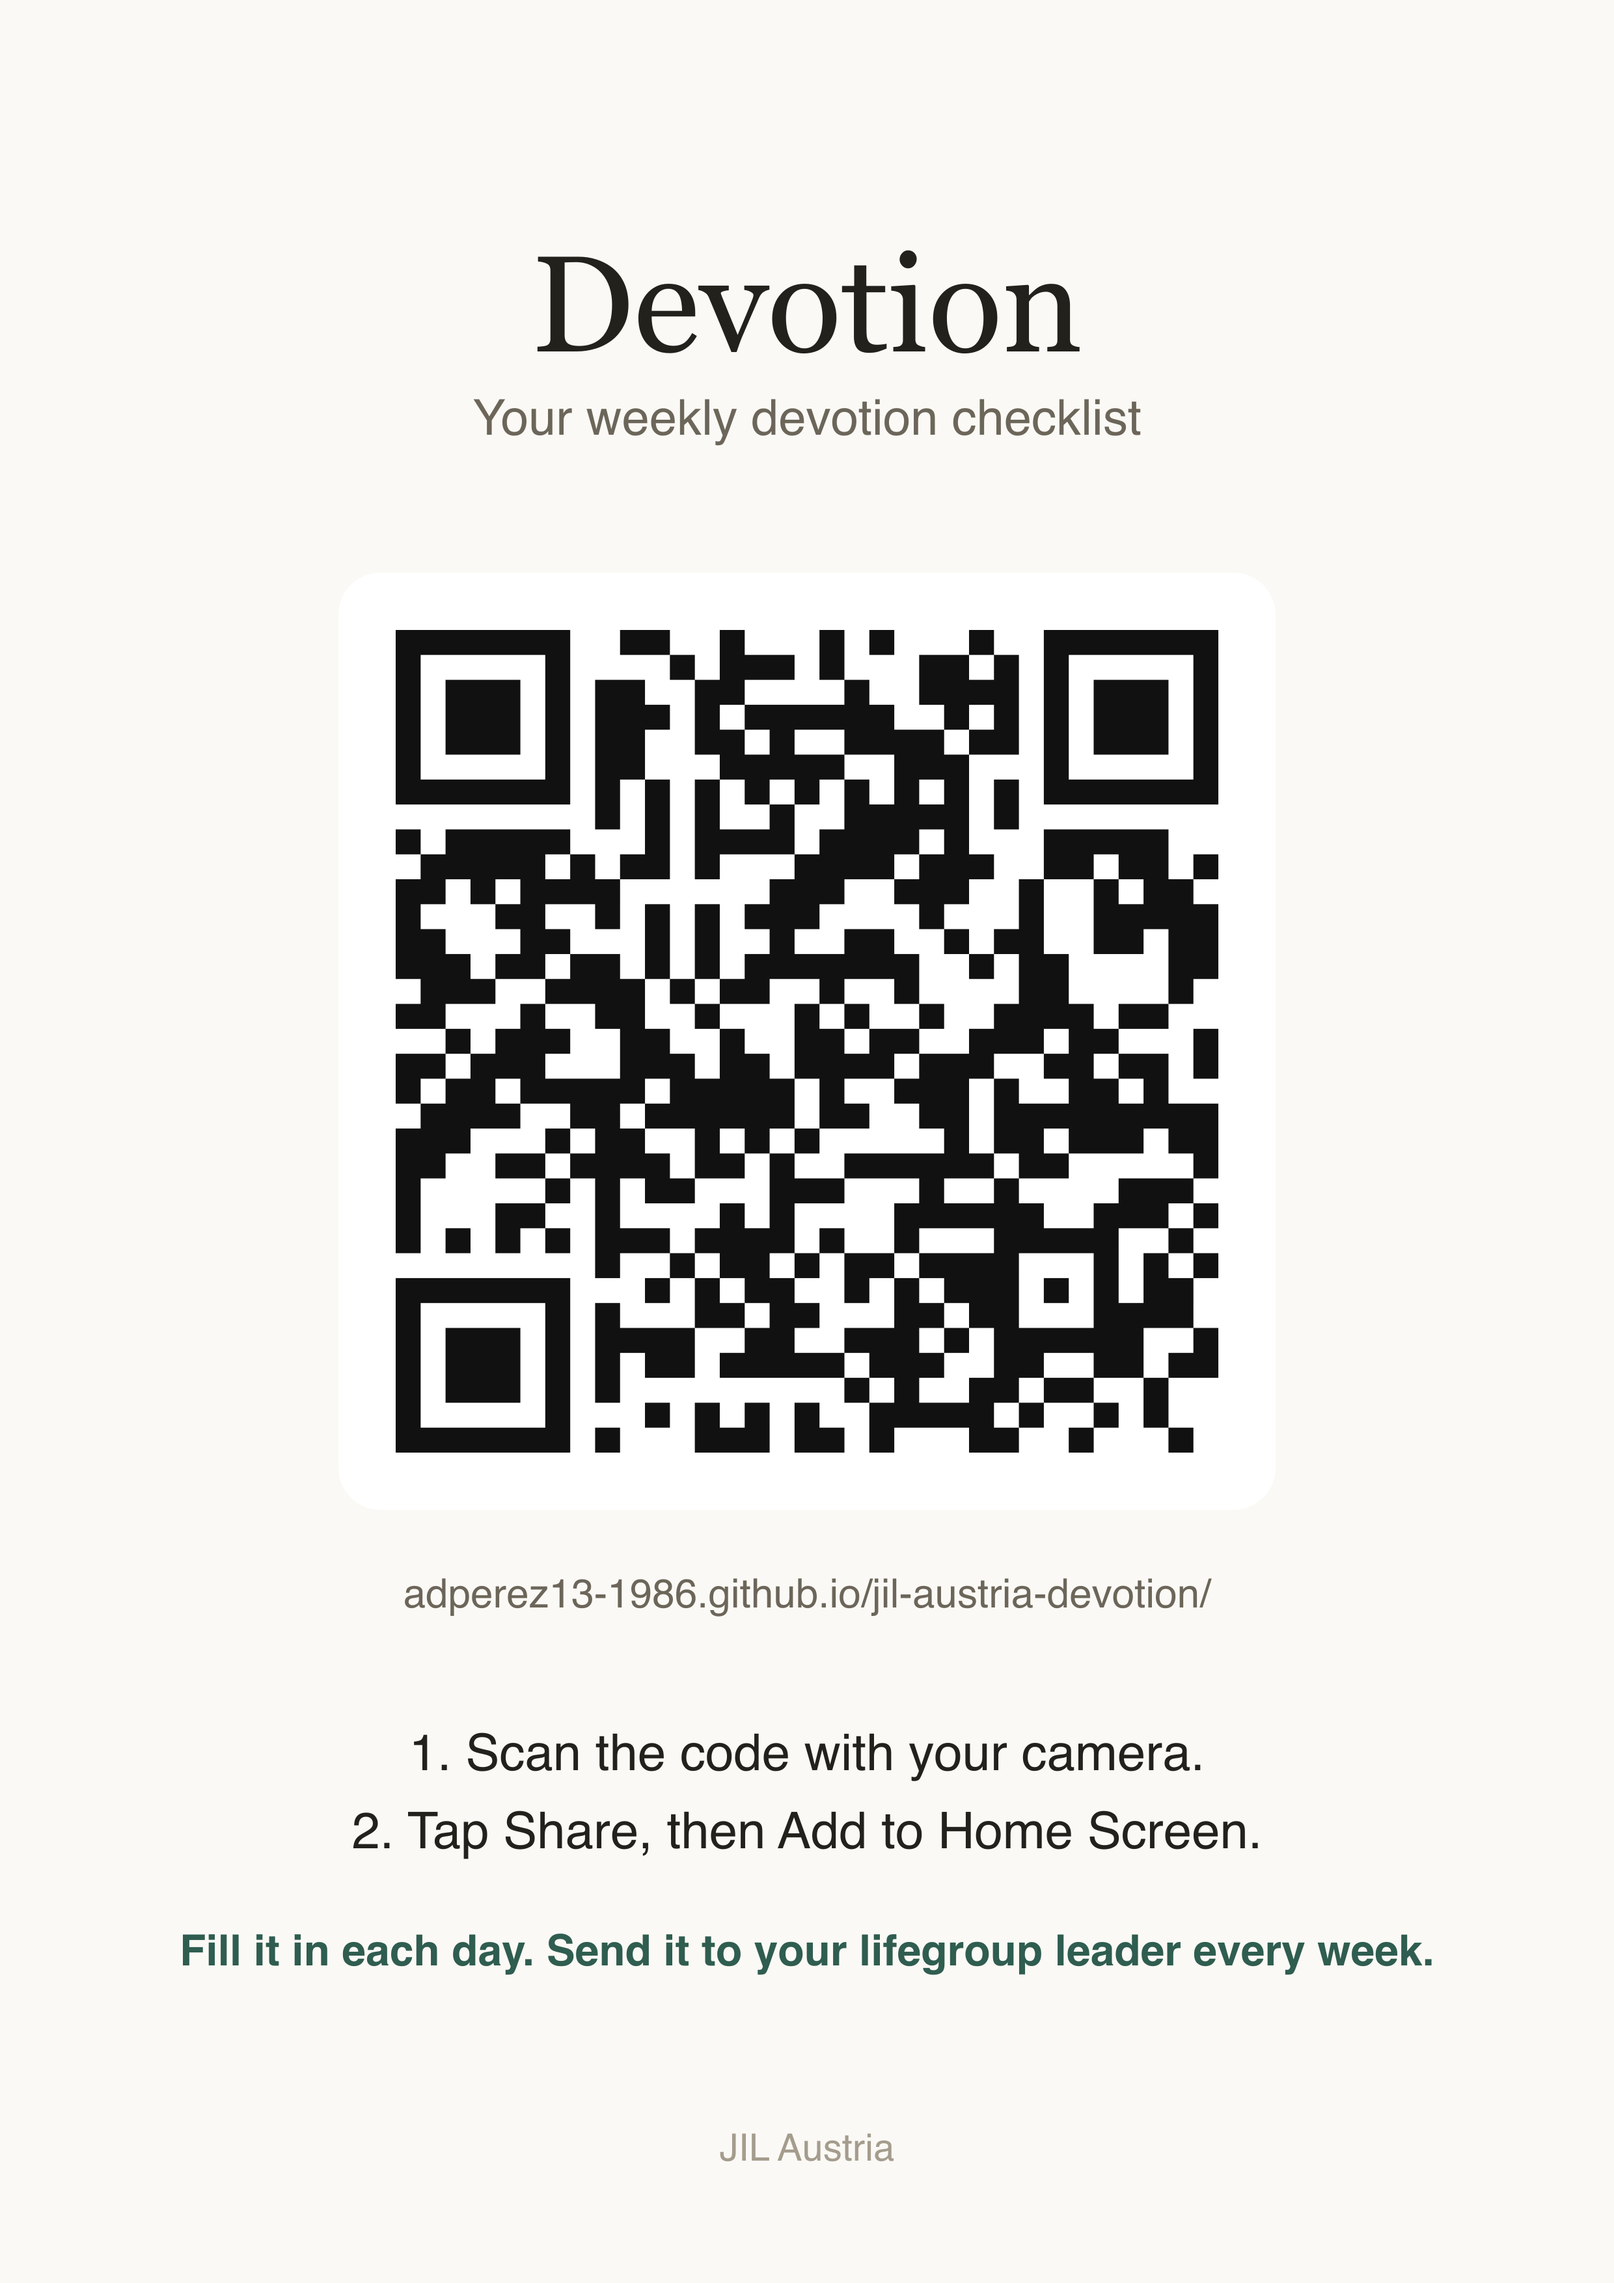
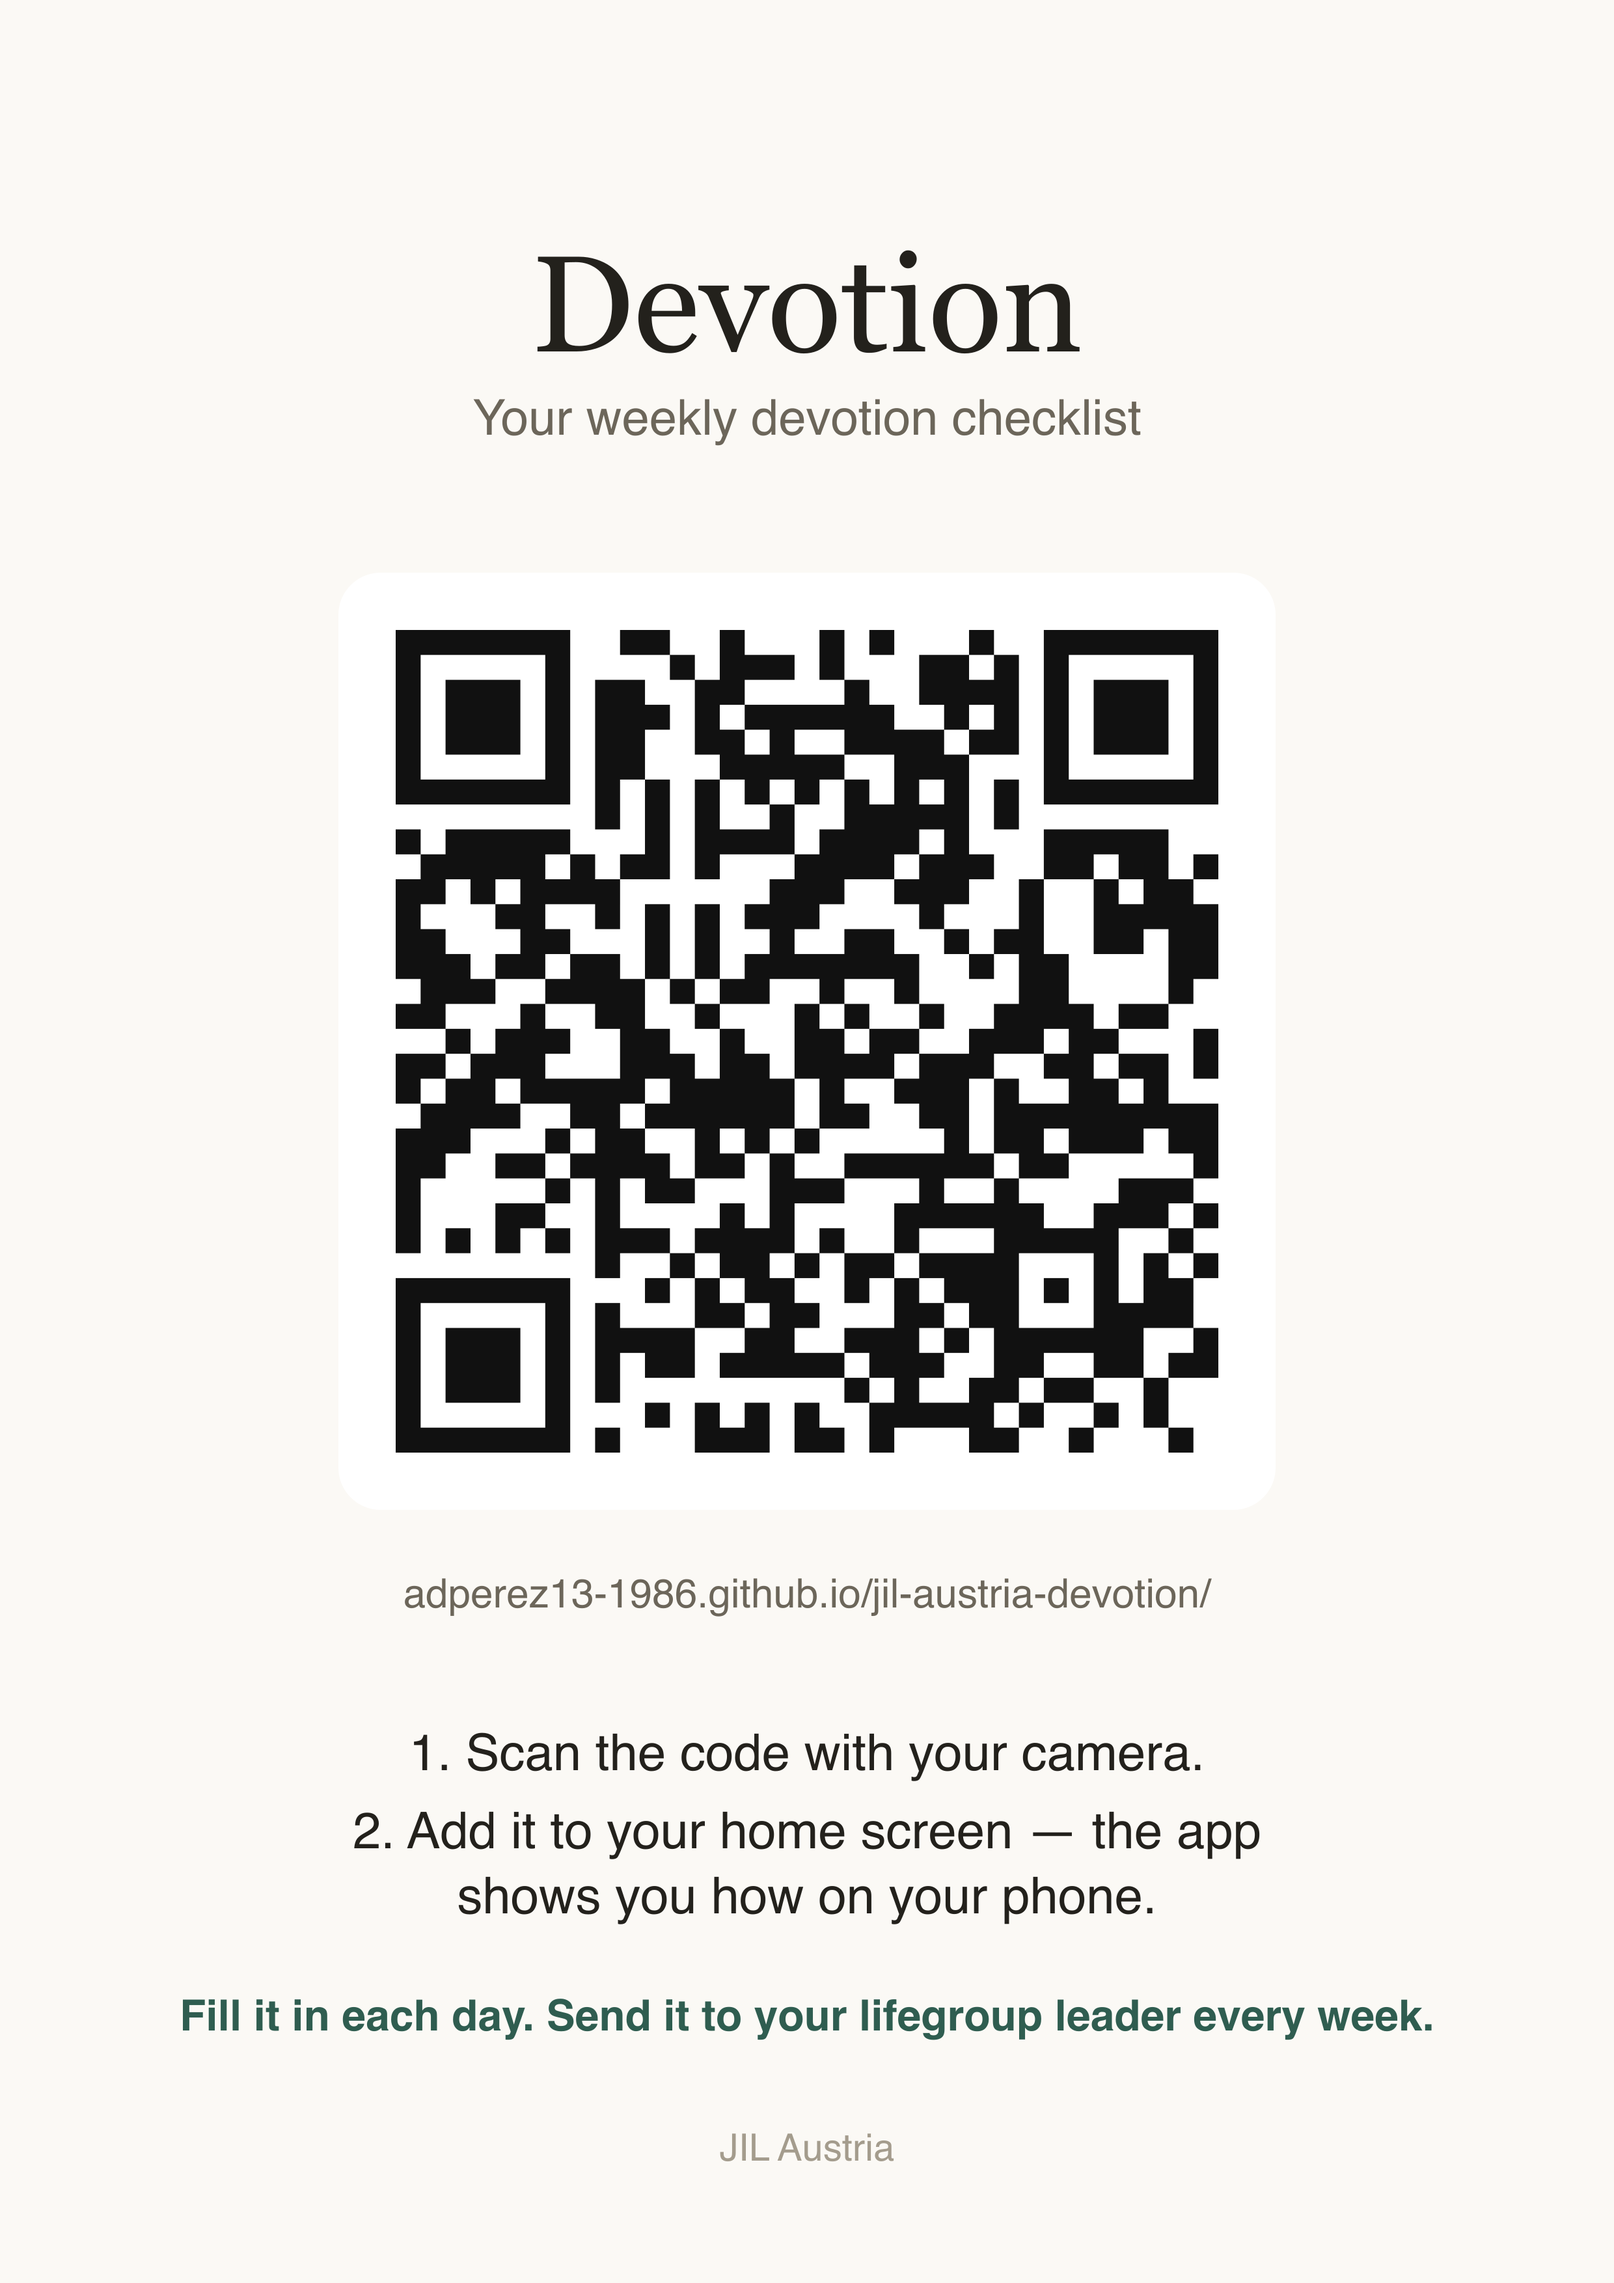
Let the app explain installing, instead of the poster guessing
A printed sheet has to pick either iPhone or Android wording and be wrong for
half the room. The app knows which phone it is on, so the instruction moves
there and the poster just points at it.

Installing is the step that actually matters — iOS clears a plain website's
storage after about a week idle, while a home-screen app is exempt — so the
hint now says why, and covers three cases instead of one:

- browser offers a native install: a one-tap Install button
- iPhone: tap Share (with the glyph inline), then Add to Home Screen
- any other Android browser: open the menu, then Add to Home screen

That last case previously showed nothing at all, because it depends on
beforeinstallprompt, which Firefox and Samsung Internet never fire.

Changed region(s): [[0.1242, 0.7768, 0.9004, 0.9011]]

diff --git a/src/main.ts b/src/main.ts
@@ -313,43 +313,83 @@ app.querySelector('#do-copy')!.addEventListener('click', async () => {
 
 /* ---------- install hint ---------- */
 
+/**
+ * Installing is the one step that genuinely matters: iOS clears a plain
+ * website's storage after about a week idle, and a home-screen app is exempt.
+ * So the wording has to be right on whatever phone the member actually has —
+ * which is why this lives here, where the platform is knowable, rather than on
+ * a printed poster that has to guess.
+ */
+
 const INSTALL_DISMISSED = 'devotion:install-dismissed';
+
+type InstallPrompt = Event & { prompt: () => Promise<void> };
+
+let deferredPrompt: InstallPrompt | null = null;
+
+const SHARE_GLYPH =
+  '<svg class="glyph" width="15" height="15" viewBox="0 0 24 24" fill="none" stroke="currentColor" stroke-width="2" stroke-linecap="round" stroke-linejoin="round"><path d="M12 16V3"/><path d="m7.5 7.5 4.5-4.5 4.5 4.5"/><path d="M5 13v6a2 2 0 0 0 2 2h10a2 2 0 0 0 2-2v-6"/></svg>';
 
 function isInstalled(): boolean {
   const iosStandalone = (navigator as Navigator & { standalone?: boolean }).standalone;
   return window.matchMedia('(display-mode: standalone)').matches || iosStandalone === true;
 }
 
-function showInstallHint(message: string, action?: { label: string; run: () => void }): void {
-  if (isInstalled() || localStorage.getItem(INSTALL_DISMISSED)) return;
-  const slot = app.querySelector<HTMLElement>('#install-slot')!;
-  const hint = document.createElement('div');
-  hint.className = 'install';
-  hint.innerHTML = `<span>${message}</span><button type="button">${action ? action.label : 'Got it'}</button>`;
-  hint.querySelector('button')!.addEventListener('click', () => {
-    if (action) action.run();
-    localStorage.setItem(INSTALL_DISMISSED, '1');
-    hint.remove();
-  });
-  slot.replaceChildren(hint);
+function phoneKind(): 'ios' | 'android' | 'other' {
+  const ua = navigator.userAgent;
+  // iPadOS reports itself as a Mac, so touch points are the giveaway.
+  if (/iPad|iPhone|iPod/.test(ua) || (navigator.platform === 'MacIntel' && navigator.maxTouchPoints > 1)) return 'ios';
+  if (/Android/.test(ua)) return 'android';
+  return 'other';
 }
 
-type InstallPrompt = Event & { prompt: () => Promise<void> };
+function renderInstallHint(): void {
+  if (isInstalled() || localStorage.getItem(INSTALL_DISMISSED)) return;
+
+  const kind = phoneKind();
+  // Nothing useful to say on a desktop that cannot install it either.
+  if (kind === 'other' && !deferredPrompt) return;
+
+  const steps = deferredPrompt
+    ? 'Tap Install, so it opens like an app and your entries are kept.'
+    : kind === 'ios'
+      ? `Tap ${SHARE_GLYPH} Share, then “Add to Home Screen”, so your entries are kept.`
+      : 'Open your browser’s menu, then “Add to Home screen”, so your entries are kept.';
+
+  const hint = document.createElement('div');
+  hint.className = 'install';
+  hint.innerHTML = `
+    <div class="body">
+      <strong>Add Devotion to your home screen</strong>
+      <p>${steps}</p>
+    </div>
+    ${deferredPrompt ? '<button type="button" class="go">Install</button>' : ''}
+    <button type="button" class="dismiss" aria-label="Dismiss">&times;</button>
+  `;
+
+  const close = () => {
+    localStorage.setItem(INSTALL_DISMISSED, '1');
+    hint.remove();
+  };
+
+  hint.querySelector('.dismiss')!.addEventListener('click', close);
+  hint.querySelector('.go')?.addEventListener('click', () => {
+    void deferredPrompt?.prompt();
+    close();
+  });
+
+  app.querySelector<HTMLElement>('#install-slot')!.replaceChildren(hint);
+}
 
 window.addEventListener('beforeinstallprompt', (event) => {
   event.preventDefault();
-  const deferred = event as InstallPrompt;
-  showInstallHint('Add Devotion to your home screen.', {
-    label: 'Install',
-    run: () => void deferred.prompt(),
-  });
+  deferredPrompt = event as InstallPrompt;
+  renderInstallHint(); // Upgrade to the one-tap version if the plain one is already up.
 });
 
-const isIOS = /iPad|iPhone|iPod/.test(navigator.userAgent) ||
-  (navigator.platform === 'MacIntel' && navigator.maxTouchPoints > 1);
-if (isIOS) {
-  showInstallHint('Tap Share, then “Add to Home Screen”.');
-}
+// Chrome fires beforeinstallprompt a beat after load, and plenty of Android
+// browsers never fire it at all. Give it a moment, then say something anyway.
+setTimeout(renderInstallHint, 1200);
 
 /* ---------- boot ---------- */
 

diff --git a/src/style.css b/src/style.css
@@ -436,27 +436,72 @@ dialog::backdrop { background: rgba(20, 18, 14, 0.42); }
 
 .install {
   max-width: 620px;
-  margin: 4px auto 0;
-  padding: 11px 14px;
-  display: flex;
-  align-items: center;
-  gap: 10px;
-  font-size: 13.5px;
-  color: var(--ink-soft);
-  background: var(--accent-soft);
-  border-radius: 12px;
   width: calc(100% - 24px);
+  margin: 4px auto 0;
+  padding: 13px 14px;
+  display: flex;
+  align-items: flex-start;
+  gap: 10px;
+  background: var(--accent-soft);
+  border: 1px solid color-mix(in srgb, var(--accent) 26%, transparent);
+  border-radius: 14px;
 }
 
-.install button {
-  margin-left: auto;
-  flex: none;
-  border: 0;
-  background: transparent;
-  color: var(--accent);
-  font-weight: 600;
-  padding: 4px;
+.install .body { flex: 1; min-width: 0; }
+
+.install strong {
+  display: block;
+  font-size: 14.5px;
+  color: var(--ink);
+  margin-bottom: 2px;
 }
+
+.install p {
+  margin: 0;
+  font-size: 13px;
+  line-height: 1.5;
+  color: var(--ink-soft);
+}
+
+/* The iOS share glyph, sitting inline in the sentence where the word would be. */
+.install .glyph {
+  vertical-align: -2px;
+  margin: 0 1px;
+  color: var(--accent);
+}
+
+.install .go {
+  flex: none;
+  align-self: center;
+  min-height: 38px;
+  padding: 0 15px;
+  border: 0;
+  border-radius: 10px;
+  background: var(--accent);
+  color: #fff;
+  font-size: 14.5px;
+  font-weight: 600;
+}
+
+@media (prefers-color-scheme: dark) {
+  .install .go { color: #16150f; }
+}
+
+.install .dismiss {
+  flex: none;
+  width: 28px;
+  height: 28px;
+  margin: -3px -4px 0 0;
+  padding: 0;
+  border: 0;
+  border-radius: 8px;
+  background: transparent;
+  color: var(--ink-faint);
+  font-size: 21px;
+  line-height: 1;
+}
+
+.install .dismiss:active { background: color-mix(in srgb, var(--accent) 14%, transparent); }
 
 .toast {
   position: fixed;

diff --git a/README.md b/README.md
@@ -87,6 +87,11 @@ Every output is checked to decode back to the exact URL, including heavily
 downscaled, before being committed — a QR that does not scan is worse than no
 QR at all.
 
+The poster deliberately does *not* say how to add the app to a home screen.
+That wording differs between iPhone and Android, and a printed sheet has to
+guess. The app knows what it is running on and says the right thing itself, so
+the poster just points at it.
+
 ### The explainer video
 
 `demo/devotion-demo.mp4` is recorded by driving the real app in a phone-sized
